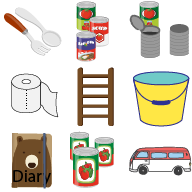
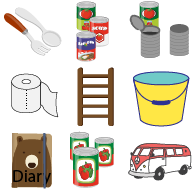
updated bus, and added new location!
Player location is now set by data

Changed region(s): [[0.6562, 0.7188, 1.0, 0.9688]]

diff --git a/final/scenes/Scene1.js b/final/scenes/Scene1.js
@@ -104,7 +104,7 @@ class Scene1 extends Phaser.Scene{
                 bucket_text.setText("Let's head out!");
                 game_over = false;
                 health = 300;
-                this.scene.start('Scene2'); // Begin playing berry game
+                this.scene.start('Scene2', {playerX: 50, playerY: 2400}); // Begin playing berry game
               }, this);
 
           diary.on('pointerover', function(){
@@ -126,14 +126,14 @@ class Scene1 extends Phaser.Scene{
           ladder.on('pointerout', function(){
                   ladder_text.setVisible(false);
                 }, this);
-/* // I want the ladder to be clickable, and it takes you to scene2,
+ // I want the ladder to be clickable, and it takes you to scene2,
   //except now you can pass through the water blockade.
           ladder.on('pointerdown', function(){
               bucket_text.setText("Let's head out!");
               game_over = false;
               health = 300;
-              this.scene.start('Scene2', {bridge:}); // Begin playing berry game
-            }, this);*/
+              this.scene.start('Scene2', {playerX: 850, playerY: 1040}); // Begin playing berry game at level 2
+            }, this);
         }
 
   }

diff --git a/final/scenes/Scene2.js b/final/scenes/Scene2.js
@@ -4,7 +4,10 @@ class Scene2 extends Phaser.Scene{
       super('Scene2');
     }
 
-    preload(){
+    init(data){
+      console.log('init', data);
+      this.playerX = data.playerX;
+      this.playerY = data.playerY;
   }
 
     create() {
@@ -25,8 +28,11 @@ class Scene2 extends Phaser.Scene{
       // Creates Collisions with any tile that has been marked collides
      tree_layer.setCollisionByProperty({collides: true});
 
+     //Player's XY data needs to be a variable, so we can load it from scene1
+     player = this.physics.add.sprite(this.playerX, this.playerY, 'rosie');
+
     // displays player sprite
-    player = this.physics.add.sprite(50,2400, 'rosie');
+//    player = this.physics.add.sprite(50,2400, 'rosie');
 
       // Keeps player within world boundary
       player.setCollideWorldBounds(true);
